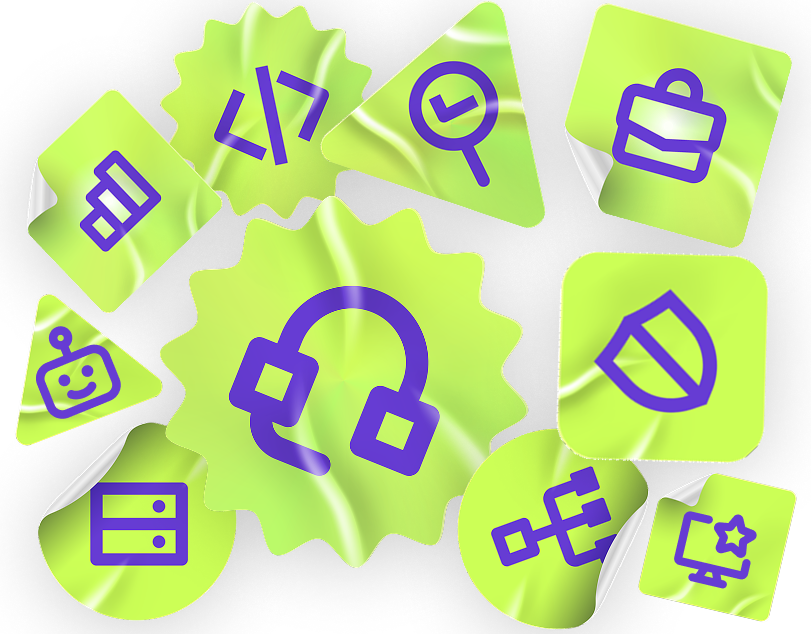
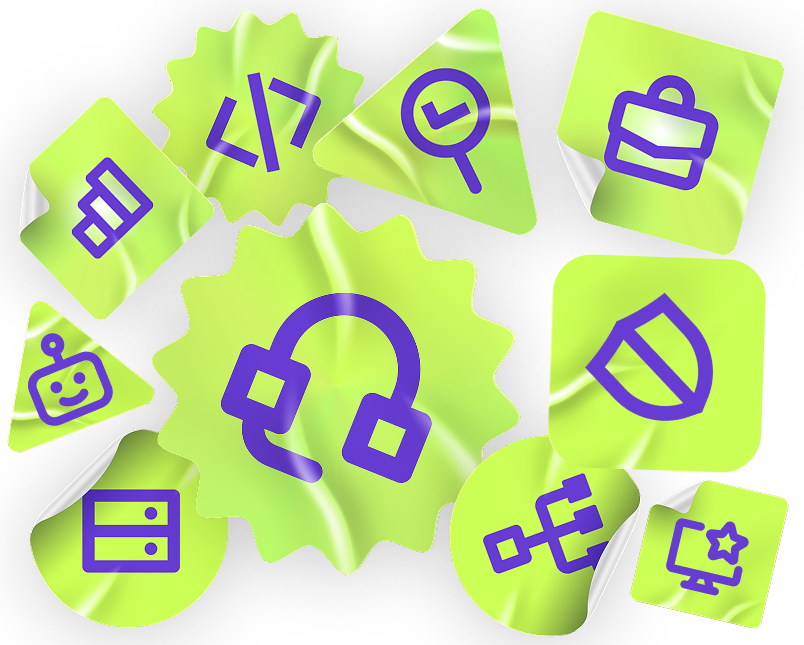
sdfsdf

diff --git a/css/style.css b/css/style.css
@@ -313,6 +313,12 @@ block--mobail-show {
     text-align: center;
     font-weight: 500;
     font-family: var(--font-secondary);
+    line-height: 110%;
+}
+
+.header__item {
+    display: flex;
+    align-items: center;
 }
 
 /* Позиционирование декоратиынйх линий  */
@@ -453,7 +459,7 @@ block--mobail-show {
     flex-direction: column;
 }
 
-.features__stat-icon {
+.features__stat-blockicon {
     position: absolute;
     display: block;
     width: 120px;
@@ -461,11 +467,17 @@ block--mobail-show {
     top: -62px;
 }
 
+.features__stat-icon {
+    object-fit: cover;
+    width: 100%;
+    height: 100%;
+}
+
 .features__stat-card:nth-child(1) {
     max-width: 263px;
 }
 
-.features__stat-card:nth-child(1) .features__stat-icon {
+.features__stat-card:nth-child(1) .features__stat-blockicon {
     left: 151px;
 }
 
@@ -473,7 +485,7 @@ block--mobail-show {
     max-width: 383px;
 }
 
-.features__stat-card:nth-child(2) .features__stat-icon {
+.features__stat-card:nth-child(2) .features__stat-blockicon {
     left: 172px;
 }
 
@@ -481,7 +493,7 @@ block--mobail-show {
     max-width: 381px;
 }
 
-.features__stat-card:nth-child(3) .features__stat-icon {
+.features__stat-card:nth-child(3) .features__stat-blockicon {
     left: 186px;
 }
 
@@ -489,7 +501,7 @@ block--mobail-show {
     max-width: 315px;
 }
 
-.features__stat-card:nth-child(4) .features__stat-icon {
+.features__stat-card:nth-child(4) .features__stat-blockicon {
     left: 271px;
 }
 
@@ -531,7 +543,7 @@ block--mobail-show {
 }
 
 .about-dit__description {
-    margin-top: 22px;
+    margin-top: 24px;
 }
 
 .about-dit__highlight {
@@ -571,6 +583,7 @@ block--mobail-show {
 }
 
 .partner-chip {
+    position: relative;
     display: flex;
     padding: 8px 8px 8px 25px;
     align-items: center;
@@ -580,12 +593,24 @@ block--mobail-show {
     flex-shrink: 0;
 
     backdrop-filter: blur(7px);
-    box-shadow:
-        inset -0.75px -0.5px rgba(255, 255, 255, 0.1),
-        inset +0.75px +0.5px rgba(255, 255, 255, 0.025),
-        3px 2px 10px rgba(0, 0, 0, 0.25),
-        inset 0px 0px 10px 5px rgba(255, 255, 255, 0.025);
+    overflow: hidden;
     border: 1px solid rgba(255, 255, 255, 0.025);
+}
+
+.partner-chip::before {
+    content: "";
+    position: absolute;
+    inset: 0;
+    border-radius: 46px;
+    padding: 1px;
+    background: linear-gradient(57deg, transparent 22%, rgba(255, 255, 255, 0.3) 32%, transparent 77%);
+    -webkit-mask:
+        linear-gradient(#fff 0 0) content-box,
+        linear-gradient(#fff 0 0);
+    -webkit-mask-composite: xor;
+    mask-composite: exclude;
+
+    pointer-events: none;
 }
 
 .marquee-wrapper {
@@ -613,7 +638,7 @@ block--mobail-show {
     gap: 24px;
     padding-right: 24px;
     width: max-content;
-    animation: scroll-left var(--speed-animation) linear infinite;
+    /* animation: scroll-left var(--speed-animation) linear infinite; */
 }
 
 @keyframes scroll-left {
@@ -678,6 +703,7 @@ block--mobail-show {
 /* Блок Выбери направление стажировки */
 .directions__container {
     background: url('../img/directions-stickers.png') center right / 540px 409px no-repeat;
+    min-height: 325px;
 }
 
 .directions__content {
@@ -1351,16 +1377,16 @@ block--mobail-show {
     }
 
     .header__logo-group {
-        height: 35px;
         gap: 20px;
     }
 
-    .header__logo {
-        height: 100%;
+    .header__logo:nth-child(1) {
+        height: 36px;
     }
 
     .header__logo:nth-child(2) {
         height: 27px;
+        margin-bottom: 3px;
     }
 
     .header__list,
@@ -1465,8 +1491,13 @@ block--mobail-show {
         max-width: 625px;
     }
 
-    .features__item:first-child .features__item-desc {
-        max-width: 550px;
+    .features__item:nth-child(1) .features__item-desc,
+    .features__item:nth-child(2) .features__item-desc {
+        max-width: 510px;
+    }
+
+    .features__item:nth-child(5) .features__item-desc {
+        max-width: 535px;
     }
 
     /* Блок Приемущества  */
@@ -1485,7 +1516,7 @@ block--mobail-show {
         line-height: 22px;
     }
 
-    .features__stat-icon {
+    .features__stat-blockicon {
         height: 78px;
         width: 78px;
         top: -36px;
@@ -1507,20 +1538,20 @@ block--mobail-show {
         width: 225px;
     }
 
-    .features__stat-card:nth-child(1) .features__stat-icon {
+    .features__stat-card:nth-child(1) .features__stat-blockicon {
         left: 106px;
     }
 
-    .features__stat-card:nth-child(2) .features__stat-icon {
+    .features__stat-card:nth-child(2) .features__stat-blockicon {
         left: 133px;
     }
 
-    .features__stat-card:nth-child(3) .features__stat-icon {
+    .features__stat-card:nth-child(3) .features__stat-blockicon {
         left: 140px;
     }
 
 
-    .features__stat-card:nth-child(4) .features__stat-icon {
+    .features__stat-card:nth-child(4) .features__stat-blockicon {
         left: 193px;
     }
 
@@ -1531,15 +1562,11 @@ block--mobail-show {
     }
 
     .about-dit__container {
-        padding-bottom: 0;
+        padding-bottom: 24px;
     }
 
     .about-dit__main {
         gap: 20px;
-    }
-
-    .about-dit__title {
-        line-height: 48px;
     }
 
     .about-dit__highlight {
@@ -1551,6 +1578,10 @@ block--mobail-show {
         max-width: 532px;
         height: 416px;
         background: url(../img/dit-room-1280.jpg) center center / cover no-repeat;
+    }
+
+    .about-dit {
+        padding-bottom: 80px;
     }
 
     .marquee__inner {
@@ -1565,6 +1596,10 @@ block--mobail-show {
     .partner-chip__icon-box img {
         height: 100%;
         width: 100%;
+    }
+
+    .partner-chip {
+        padding: 7px 8px 7px 25px;
     }
 
     /* Блок Кого мы ждем  */
@@ -1615,15 +1650,12 @@ block--mobail-show {
     .steps {
         background-image: url(../img/steps-decore-1280.svg);
         background-size: 554px 174px;
-        background-position: bottom 0 left calc(50% + 442px);
+        background-position: bottom 62px left calc(50% + 443px);
+        padding-bottom: var(--section-spacing);
     }
 
     .steps__content {
         border-radius: 16px;
-    }
-
-    .steps__title {
-        line-height: 48px;
     }
 
     .steps__item {
@@ -1648,6 +1680,7 @@ block--mobail-show {
     /* Блок Часто задаваемые вопросы */
     .faq {
         background: none;
+        margin-top: 0;
     }
 
     .faq__list {
@@ -1665,13 +1698,12 @@ block--mobail-show {
     /* Блок Приходи в нашу команду */
     .cta {
         background-image: url(../img/cta-decore-1280.svg);
-        background-position: bottom 7px left calc(50% + 183px);
+        background-position: top 218px left calc(50% + 183px);
     }
 
     .cta__container {
-        /* height: 295px;
-        gap: 112px; */
-        background: url('../img/cta_bg-1280.png') bottom 8px right 10px / 429px 287px no-repeat;
+        background: url('../img/cta_bg-1280.png') top -1px right 11px / 429px 287px no-repeat;
+        padding-bottom: 106px;
     }
 
     .cta__content {
@@ -1681,10 +1713,6 @@ block--mobail-show {
 
     .cta__decor-line {
         bottom: 8px;
-    }
-
-    .cta__title {
-        line-height: 48px;
     }
 
     .cta__subtitle {
@@ -1702,6 +1730,7 @@ block--mobail-show {
 
     /* Подвал */
     .footer {
+        margin-top: 0;
         background-size: auto 240px;
         background-image: url('../img/footer-skyline-1280.svg');
     }
@@ -1720,16 +1749,18 @@ block--mobail-show {
     }
 
     .footer__logos {
+        margin-top: 51px;
         gap: 20px;
         height: 32px;
     }
 
     .footer__logo:nth-child(1) {
-        height: 32px;
+        height: 36px;
     }
 
     .footer__logo:nth-child(2) {
         height: 27px;
+        margin-top: 1px;
     }
 
     .footer__info {

diff --git a/index.html b/index.html
@@ -216,13 +216,17 @@
                 <!-- Нижняя часть: Статистика -->
                 <div class="features__stats">
                     <div class="features__stat-card">
-                        <img src="img/features_icon1.svg" alt="Декор" class="features__stat-icon">
+                        <div class="features__stat-blockicon">
+                            <img src="img/features_icon1.svg" alt="Декор" class="features__stat-icon">
+                        </div>
                         <span class="features__stat-value title--color-primary">500+</span>
                         <span class="features__stat-label title--color-white title--small">человек
                             прошли<br>стажировку</span>
                     </div>
                     <div class="features__stat-card">
-                        <img src="img/features_icon2.svg" alt="Декор" class="features__stat-icon">
+                        <div class="features__stat-blockicon">
+                            <img src="img/features_icon2.svg" alt="Декор" class="features__stat-icon">
+                        </div>
                         <span class="features__stat-value title--color-primary">2 из 3</span>
                         <span class="features__stat-label title--color-white title--small">стажеров остаются<br>работать
                             в
@@ -230,13 +234,17 @@
                             Москвы</span>
                     </div>
                     <div class="features__stat-card">
-                        <img src="img/features_icon3.svg" alt="Декор" class="features__stat-icon">
+                        <div class="features__stat-blockicon">
+                            <img src="img/features_icon3.svg" alt="Декор" class="features__stat-icon">
+                        </div>
                         <span class="features__stat-value title--color-primary">20–40</span>
                         <span class="features__stat-label title--color-white title--small">часов в неделю ты<br>можешь
                             стажироваться</span>
                     </div>
                     <div class="features__stat-card">
-                        <img src="img/features_icon4.svg" alt="Декор" class="features__stat-icon">
+                        <div class="features__stat-blockicon">
+                            <img src="img/features_icon4.svg" alt="Декор" class="features__stat-icon">
+                        </div>
                         <span class="features__stat-value title--color-primary">до 75 000</span>
                         <span class="features__stat-label title--color-white title--small">рублей в
                             месяц<br>зарплата</span>
@@ -402,7 +410,8 @@
                     </p>
 
                     <p class="candidates__text descr block--tablet-show">
-                        <span class="descr--green">Студентов последних курсов <br> и выпускников колледжей</span><br>по направлению «Поддержка пользователей»
+                        <span class="descr--green">Студентов последних курсов <br> и выпускников колледжей</span><br>по
+                        направлению «Поддержка пользователей»
                     </p>
                     <div class="candidates__block-person">
                         <img src="img/person3.png" alt="Студент колледжа" class="candidates__person">
@@ -935,7 +944,7 @@
                 <!-- Правая часть: Соцсети и доп. инфо -->
                 <div class="footer__info">
                     <p class="footer__text descr">
-                        А еще в Правительстве Москвы есть много других стажировок — от «HR-города» до «Городской
+                        А еще в Правительстве Москвы есть много других стажировок — от «HR-города» <br> до «Городской
                         экономики»!
                     </p>
                     <div class="footer__social">
